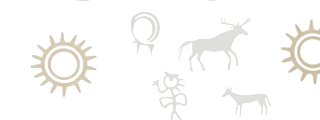
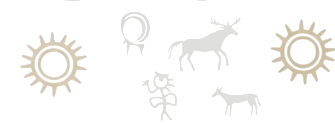
fix(header,catalog): match Thompson collapsed curve, remove eye-straining dark edges, and fix petroglyph overlap

diff --git a/src/components/catalog/CatalogPetroglyphHero.tsx b/src/components/catalog/CatalogPetroglyphHero.tsx
@@ -12,9 +12,9 @@ export default function CatalogPetroglyphHero({
   children,
 }: CatalogPetroglyphHeroProps) {
   return (
-    <div className="relative mb-5 pt-1 pb-2 overflow-hidden select-none">
-      {/* Right Background Petroglyphs (Ibex, Deer, Hunter, Solar Tamga) strictly in header zone */}
-      <div className="absolute right-0 -top-2 w-64 sm:w-80 lg:w-[420px] pointer-events-none opacity-85 z-0">
+    <div className="relative mb-6 pt-1 pb-2 overflow-hidden select-none">
+      {/* Right Background Petroglyphs (Ibex, Deer, Hunter, Solar Tamgas) safely inset so nothing is clipped */}
+      <div className="absolute right-2 sm:right-6 lg:right-10 -top-1 w-64 sm:w-80 lg:w-[400px] pointer-events-none opacity-85 z-0">
         <img
           src="/petroglyphs-banner.png"
           alt="Ancient Petroglyphs"
@@ -24,37 +24,42 @@ export default function CatalogPetroglyphHero({
       </div>
 
       {/* Center Golden Horse Petroglyph (Golden Steppe Stallion) */}
-      <div className="hidden md:flex absolute left-1/2 -translate-x-1/2 top-2 lg:top-1 w-28 lg:w-36 pointer-events-none z-0 justify-center">
+      <div className="hidden md:flex absolute left-1/2 -translate-x-1/2 top-1 lg:top-0 w-28 lg:w-36 pointer-events-none z-0 justify-center">
         <img
           src="/petroglyph-horse.png"
           alt="Golden Steppe Horse"
-          className="w-full h-auto object-contain drop-shadow-[0_2px_10px_rgba(197,155,72,0.35)]"
+          className="w-full h-auto object-contain drop-shadow-[0_2px_10px_rgba(197,155,72,0.3)]"
           loading="lazy"
         />
       </div>
 
-      {/* Left Sun Tamga (Accent near categories) */}
-      <div className="hidden sm:block absolute left-48 sm:left-56 lg:left-64 top-10 sm:top-12 w-12 sm:w-14 pointer-events-none opacity-70 z-0">
-        <img
-          src="/petroglyph-sun.png"
-          alt="Solar Wheel Tamga"
-          className="w-full h-auto object-contain"
-          loading="lazy"
-        />
-      </div>
-
-      {/* Left Typography Block */}
-      <div className="relative z-10 max-w-xl">
-        <h1 className="text-2xl sm:text-3xl lg:text-4xl font-serif font-bold text-slate-900 tracking-tight mb-1.5">
+      {/* Left Typography Block (strictly isolated from any decorative elements) */}
+      <div className="relative z-10 max-w-lg mb-4">
+        <h1 className="text-2xl sm:text-3xl lg:text-4xl font-serif font-bold text-slate-900 tracking-tight mb-2">
           {title}
         </h1>
-        <p className="text-xs sm:text-sm text-slate-600 font-medium leading-relaxed max-w-md">
+        <p className="text-xs sm:text-sm text-slate-600 font-medium leading-relaxed">
           {subtitle}
         </p>
       </div>
 
-      {/* Category Pills & Secondary Badges container */}
-      {children && <div className="relative z-10 mt-4">{children}</div>}
+      {/* Category Pills & Sun Tamga in natural flex flow (100% zero overlap) */}
+      {children && (
+        <div className="relative z-10 flex flex-wrap items-center gap-4">
+          <div className="flex-1 min-w-0">
+            {children}
+          </div>
+          {/* Sun Tamga placed safely alongside the categories, never touching text */}
+          <div className="hidden sm:flex items-center shrink-0 opacity-70 pointer-events-none">
+            <img
+              src="/petroglyph-sun.png"
+              alt="Solar Wheel Tamga"
+              className="h-10 sm:h-12 w-auto object-contain"
+              loading="lazy"
+            />
+          </div>
+        </div>
+      )}
     </div>
   );
 }

diff --git a/src/components/catalog/DecklePaperWrapper.tsx b/src/components/catalog/DecklePaperWrapper.tsx
@@ -6,45 +6,21 @@ interface DecklePaperWrapperProps {
 
 export default function DecklePaperWrapper({ children }: DecklePaperWrapperProps) {
   return (
-    <div className="min-h-screen bg-[#0f111a] text-slate-800 transition-colors py-0 sm:py-3 lg:py-4 px-0 sm:px-3 lg:px-6">
-      {/* Central Parchment Canvas */}
-      <div className="relative mx-auto max-w-[1600px] min-h-screen bg-[#faf6ee] shadow-[0_20px_60px_rgba(0,0,0,0.6)] overflow-hidden">
-        {/* Left Deckle Torn Paper Edge */}
-        <div
-          className="absolute left-0 top-0 bottom-0 w-3 sm:w-5 pointer-events-none z-20 select-none"
-          style={{
-            backgroundImage: "url('/deckle-edge-left.svg')",
-            backgroundRepeat: 'repeat-y',
-            backgroundSize: '100% 360px',
-          }}
-          aria-hidden="true"
+    <div className="min-h-screen bg-[#faf6ee] text-slate-800 transition-colors">
+      {/* Subtle organic linen canvas with delicate tone-on-tone margins */}
+      <div className="relative mx-auto max-w-[1600px] px-3 sm:px-6 lg:px-10 pt-20 sm:pt-24 pb-20 sm:pb-24">
+        {/* Soft, delicate antique carpet boundary hairlines on edges (editorial & laconic) */}
+        <div 
+          className="absolute left-3 sm:left-6 lg:left-10 top-20 bottom-12 w-px bg-gradient-to-b from-transparent via-[#c59b48]/30 to-transparent pointer-events-none hidden md:block" 
+          aria-hidden="true" 
+        />
+        <div 
+          className="absolute right-3 sm:right-6 lg:right-10 top-20 bottom-12 w-px bg-gradient-to-b from-transparent via-[#c59b48]/30 to-transparent pointer-events-none hidden md:block" 
+          aria-hidden="true" 
         />
 
-        {/* Right Deckle Torn Paper Edge */}
-        <div
-          className="absolute right-0 top-0 bottom-0 w-3 sm:w-5 pointer-events-none z-20 select-none"
-          style={{
-            backgroundImage: "url('/deckle-edge-left.svg')",
-            backgroundRepeat: 'repeat-y',
-            backgroundSize: '100% 360px',
-            transform: 'scaleX(-1)',
-          }}
-          aria-hidden="true"
-        />
-
-        {/* Top Deckle Torn Paper Edge */}
-        <div
-          className="absolute top-0 left-0 right-0 h-3 sm:h-5 pointer-events-none z-20 select-none"
-          style={{
-            backgroundImage: "url('/deckle-edge-top.svg')",
-            backgroundRepeat: 'repeat-x',
-            backgroundSize: '360px 100%',
-          }}
-          aria-hidden="true"
-        />
-
-        {/* Parchment Content Area */}
-        <div className="relative z-10 px-3 sm:px-6 lg:px-8 pt-18 sm:pt-20 pb-20 sm:pb-24">
+        {/* Content Area */}
+        <div className="relative z-10">
           {children}
         </div>
       </div>

diff --git a/src/components/Header.tsx b/src/components/Header.tsx
@@ -128,13 +128,11 @@ export default function Header({ currentPage, onNavigate }: HeaderProps) {
 
       {/* Thompson's Tea Signature Editorial Spline Arch (Flawless cubic-bezier continuous transition) */}
       <svg
-        className={`absolute left-1/2 -translate-x-1/2 top-full -mt-px pointer-events-none transition-all duration-300 ease-[cubic-bezier(0.16,1,0.3,1)] origin-top ${
-          scrolled ? 'scale-y-0 opacity-0' : 'scale-y-100 opacity-100'
-        }`}
+        className="absolute left-1/2 -translate-x-1/2 top-full -mt-px pointer-events-none transition-all duration-300 ease-[cubic-bezier(0.16,1,0.3,1)]"
         style={{
           zIndex: 1,
-          width: '460px',
-          height: '42px',
+          width: scrolled ? '360px' : '480px',
+          height: scrolled ? '18px' : '44px',
         }}
         viewBox="0 0 500 44"
         preserveAspectRatio="none"
@@ -179,12 +177,12 @@ export default function Header({ currentPage, onNavigate }: HeaderProps) {
           {/* Left Column Spacer on Mobile to guarantee absolute center logo */}
           <div className="lg:hidden justify-self-start" />
 
-          {/* Center Column: Logo in Parabolic Arch (Full crest & text at top, collapses to text on scroll) */}
+          {/* Center Column: Logo in Parabolic Arch (Full crest & text at top, collapses to text dipping in curve on scroll) */}
           <button
             type="button"
             onClick={() => onNavigate('home')}
             className={`justify-self-center flex flex-col items-center justify-center cursor-pointer transition-all duration-300 py-1 px-3 sm:px-4 min-w-[130px] sm:min-w-[160px] ${
-              scrolled ? 'translate-y-0' : 'translate-y-1.5 sm:translate-y-2.5'
+              scrolled ? 'translate-y-1.5 sm:translate-y-2' : 'translate-y-2 sm:translate-y-3'
             }`}
             title="Synergiya Group — Главная"
             aria-label="Главная страница"
